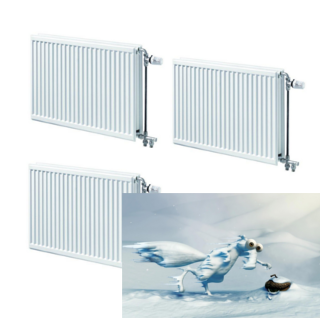
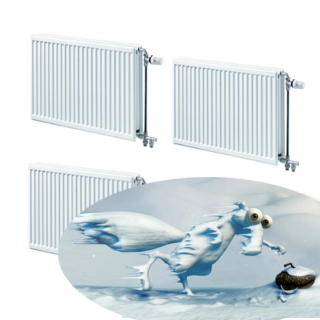
Work on the last (and winning) game

Changed region(s): [[0.1562, 0.5312, 1.0, 1.0]]

diff --git a/script.js b/script.js
@@ -39,7 +39,7 @@ function init() {
  * @param configuration
  */
 function setStage(configuration) {
-    document.getElementById("lost").innerHTML = configuration.lostMessage;
+    document.getElementById("message").innerHTML = configuration.message;
 
     totalScratchedTime = 0;
 
@@ -78,7 +78,7 @@ function startRevealingOverlay(evt) {
  */
 function addFullOverlay() {
     document.getElementById("info").style.visibility = "visible";
-    document.getElementById("lost").style.visibility = "hidden";
+    document.getElementById("message").style.visibility = "hidden";
     document.getElementById("next").style.visibility = "hidden";
     shape.cache(0, 0, 360, 360);
     shape.graphics.beginFill("#fff").drawRect(0, 0, 340, 340);
@@ -111,9 +111,9 @@ function endRevealOverlay(evt) {
     endScratchedTime = new Date();
     var interval = endScratchedTime - startScratchedTime;
     totalScratchedTime = interval + totalScratchedTime;
-    //if (totalScratchedTime >= 3500) {
+    if (totalScratchedTime >= 3500) {
         onImageDiscovered();
-    //}
+    }
     stage.off("stagemousemove", listener);
     evt.remove();
 }
@@ -123,8 +123,12 @@ function endRevealOverlay(evt) {
  */
 function onImageDiscovered()
 {
-    document.getElementById("lost").style.visibility = "visible";
-    console.log(games.length);
+    var configuration = games[gameNumber];
+    document.getElementById("message").style.visibility = "visible";
+    if (typeof configuration.class != 'undefined') {
+        document.getElementById("message").className = configuration.class;
+    }
+    document.getElementById("message").style.background = 'url("'+configuration.backgroundImagePath+'")';
     if (games.length > gameNumber+1) {
         document.getElementById("next").style.visibility = "visible";
     } else { // last element

diff --git a/configuration.js b/configuration.js
@@ -2,15 +2,33 @@ var configuration = {
     games: [
         {
             imagePath: "images/sushis.png",
-            lostMessage: "Ca alors,<br> ninja-sushis a mangé une boîte!<br> Il n'en manquait pourtant <br>qu'une seule pour gagner..."
+            backgroundImagePath: "images/orange-opacity.png",
+            message: "Ca alors,<br> ninja-sushis a mangé une boîte!<br>Il n'en manquait pourtant <br>qu'une seule pour gagner..."
         },
         {
             imagePath: "images/radiateurs.png",
-            lostMessage: "C'est dommage,<br> vous aviez presque gagné le radiateur<br> pour avoir moins le cul gelé!"
+            backgroundImagePath: "images/light-blue-opacity.png",
+            message: "C'est dommage,<br> vous aviez presque gagné <br>un radiateur pour avoir le cul moins gelé!"
         },
         {
             imagePath: "images/cats.png",
-            lostMessage: "Mince alors, vous avez perdu<br>Vous n'avez pas gagné ce chaton"
+            backgroundImagePath: "images/orange-opacity.png",
+            message: "Mince alors, vous avez perdu.<br>Cette mignonne boule de poils attendra"
+        },
+        {
+            imagePath: "images/collants.png",
+            backgroundImagePath: "images/light-blue-opacity.png",
+            message: "Zut! Collants perdues...<br>Je suis sur que tu es très déçue.."
+        },
+        {
+            imagePath: "images/disney.png",
+            backgroundImagePath: "images/light-blue-opacity.png",
+            class: "winner",
+            message: "" +
+                "Félicitations!! " +
+                "Vous êtes l'heureuse gagnante d\'un séjour d'un weekend pour deux personnes à disneyland" +
+                "<br> <img src='images/leo.gif'>" +
+            ""
         }
     ]
 };

diff --git a/index.html b/index.html
@@ -10,11 +10,11 @@
     <body onload="init();">
         <header></header>
         <canvas id="canvas" width="320" height="320"></canvas>
-        <div>
-            <button class="btn" id="next">Next!</button>
+        <div id="next">
+            <button class="btn">Next!</button>
         </div>
         <p id="info">Grattez pour savoir<br> ce que vous avez gagné!<br> 4 images identiques,<br> et c'est cadeau!</p>
-        <p id="lost">Mince alors, vous avez perdu<br>Vous n'avez pas gagné ce chaton</p>
+        <p id="message">Mince alors, vous avez perdu<br>Vous n'avez pas gagné ce chaton</p>
         <footer></footer>
     </body>
     <script src="configuration.js"></script>

diff --git a/styles.css b/styles.css
@@ -41,16 +41,28 @@ p#info {
     text-align: center;
 }
 
-p#lost {
-    background: url('images/green-opacity.png');
+p#message {
+    background-image: url('images/light-blue-opacity.png');
     bottom: 370px;
     color: #fff;
     margin: 0 auto;
-    padding: 10px 0;
+    padding: 10px 5px;
     position: relative;
     text-align: center;
     visibility: hidden;
-    width: 320px;
+    width: 310px;
+}
+
+p#message.winner {
+    bottom: 494px;
+    height: 290px;
+    padding-top: 20px;
+}
+
+p#message img {
+    width: 310px;
+    height: 200px;
+    margin-top: 20px;
 }
 
 #next {
